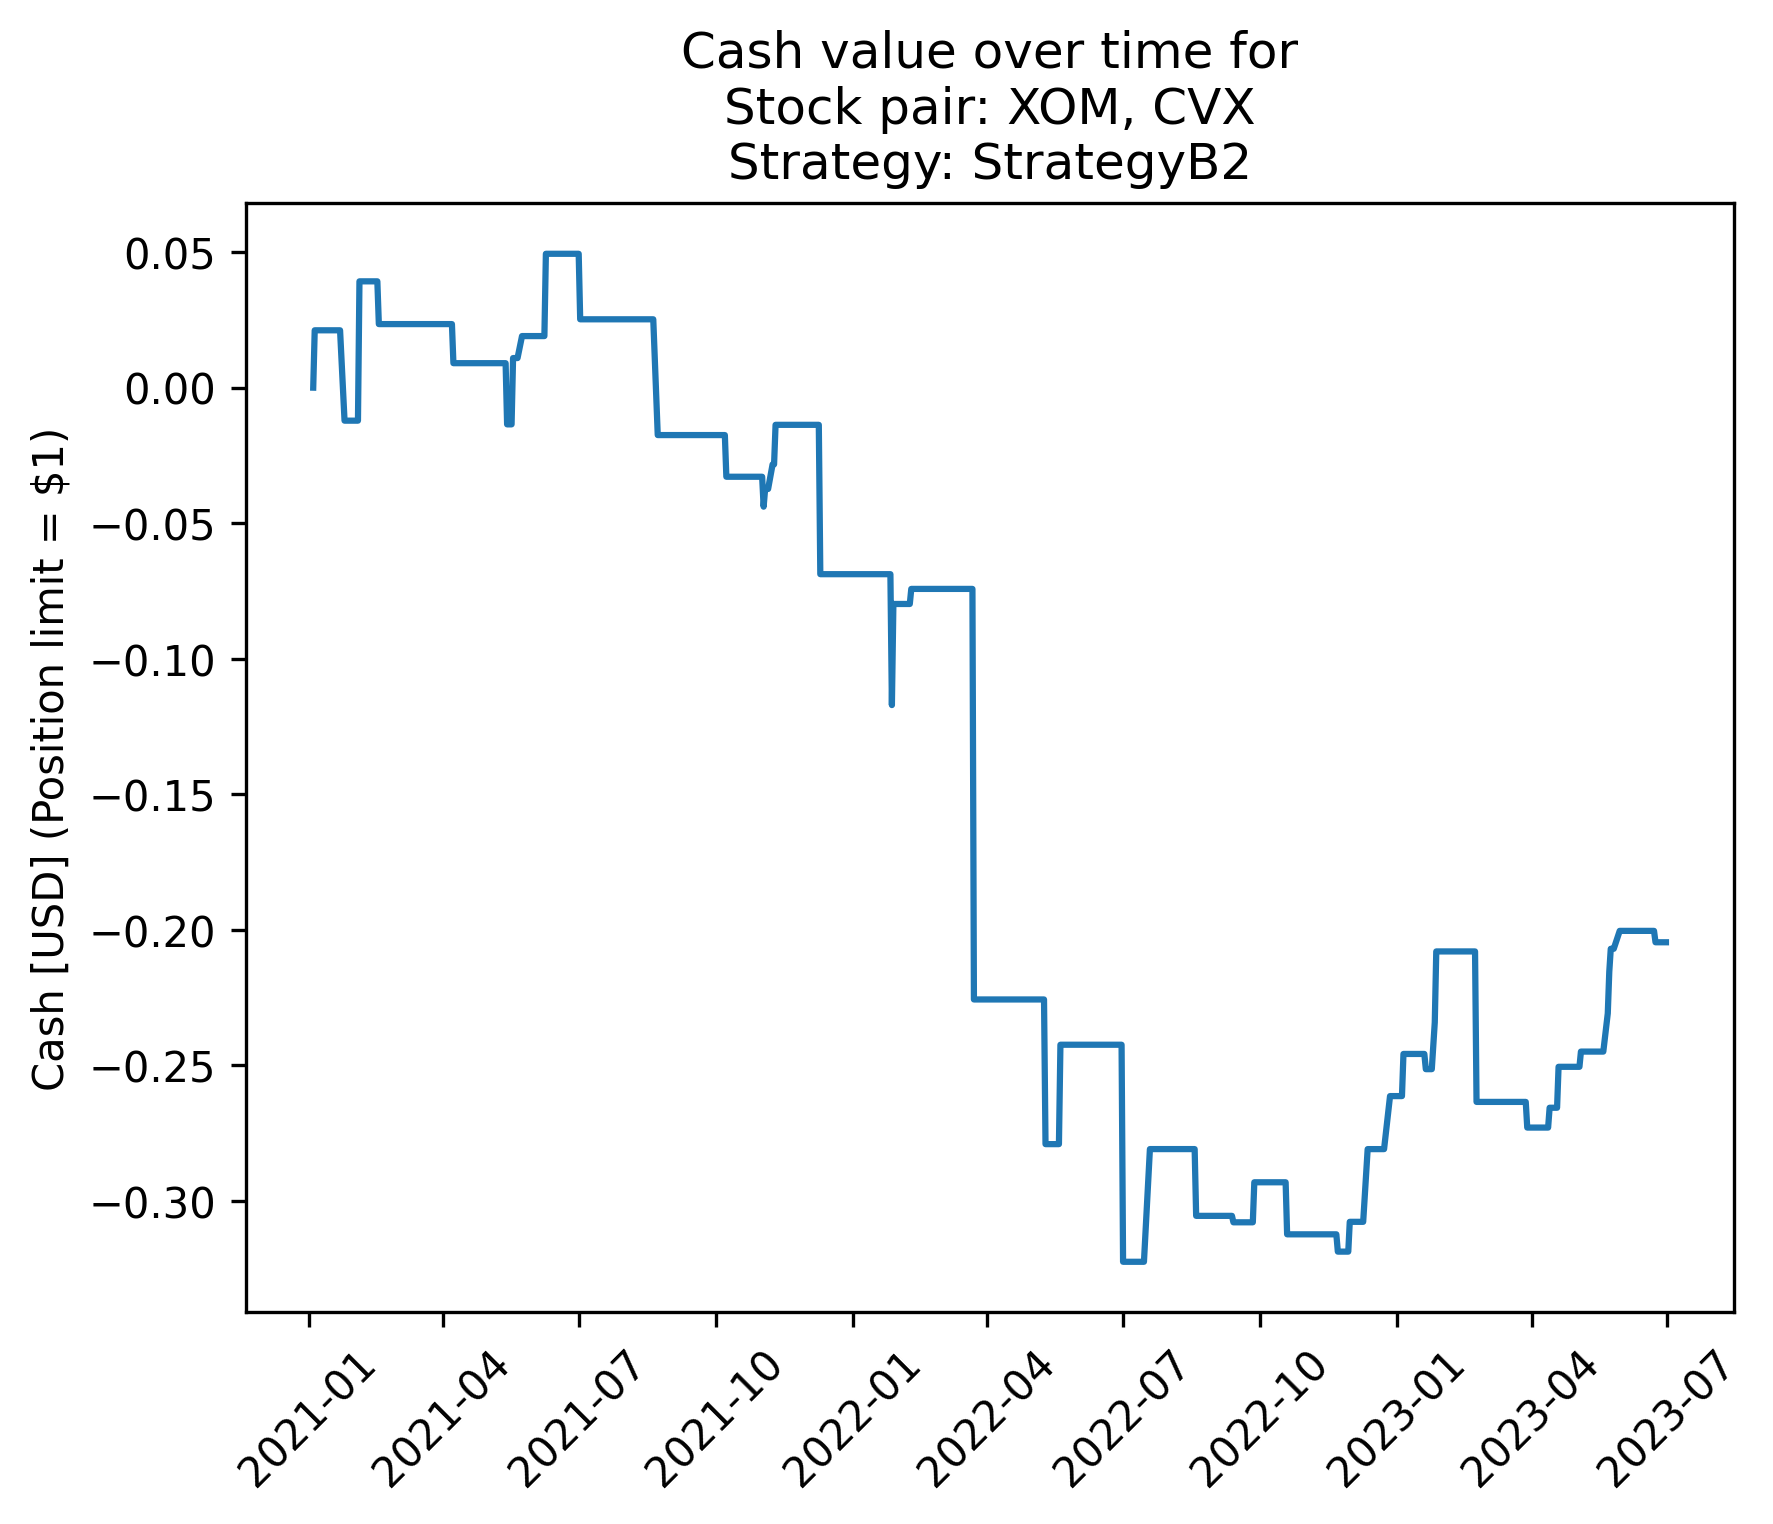
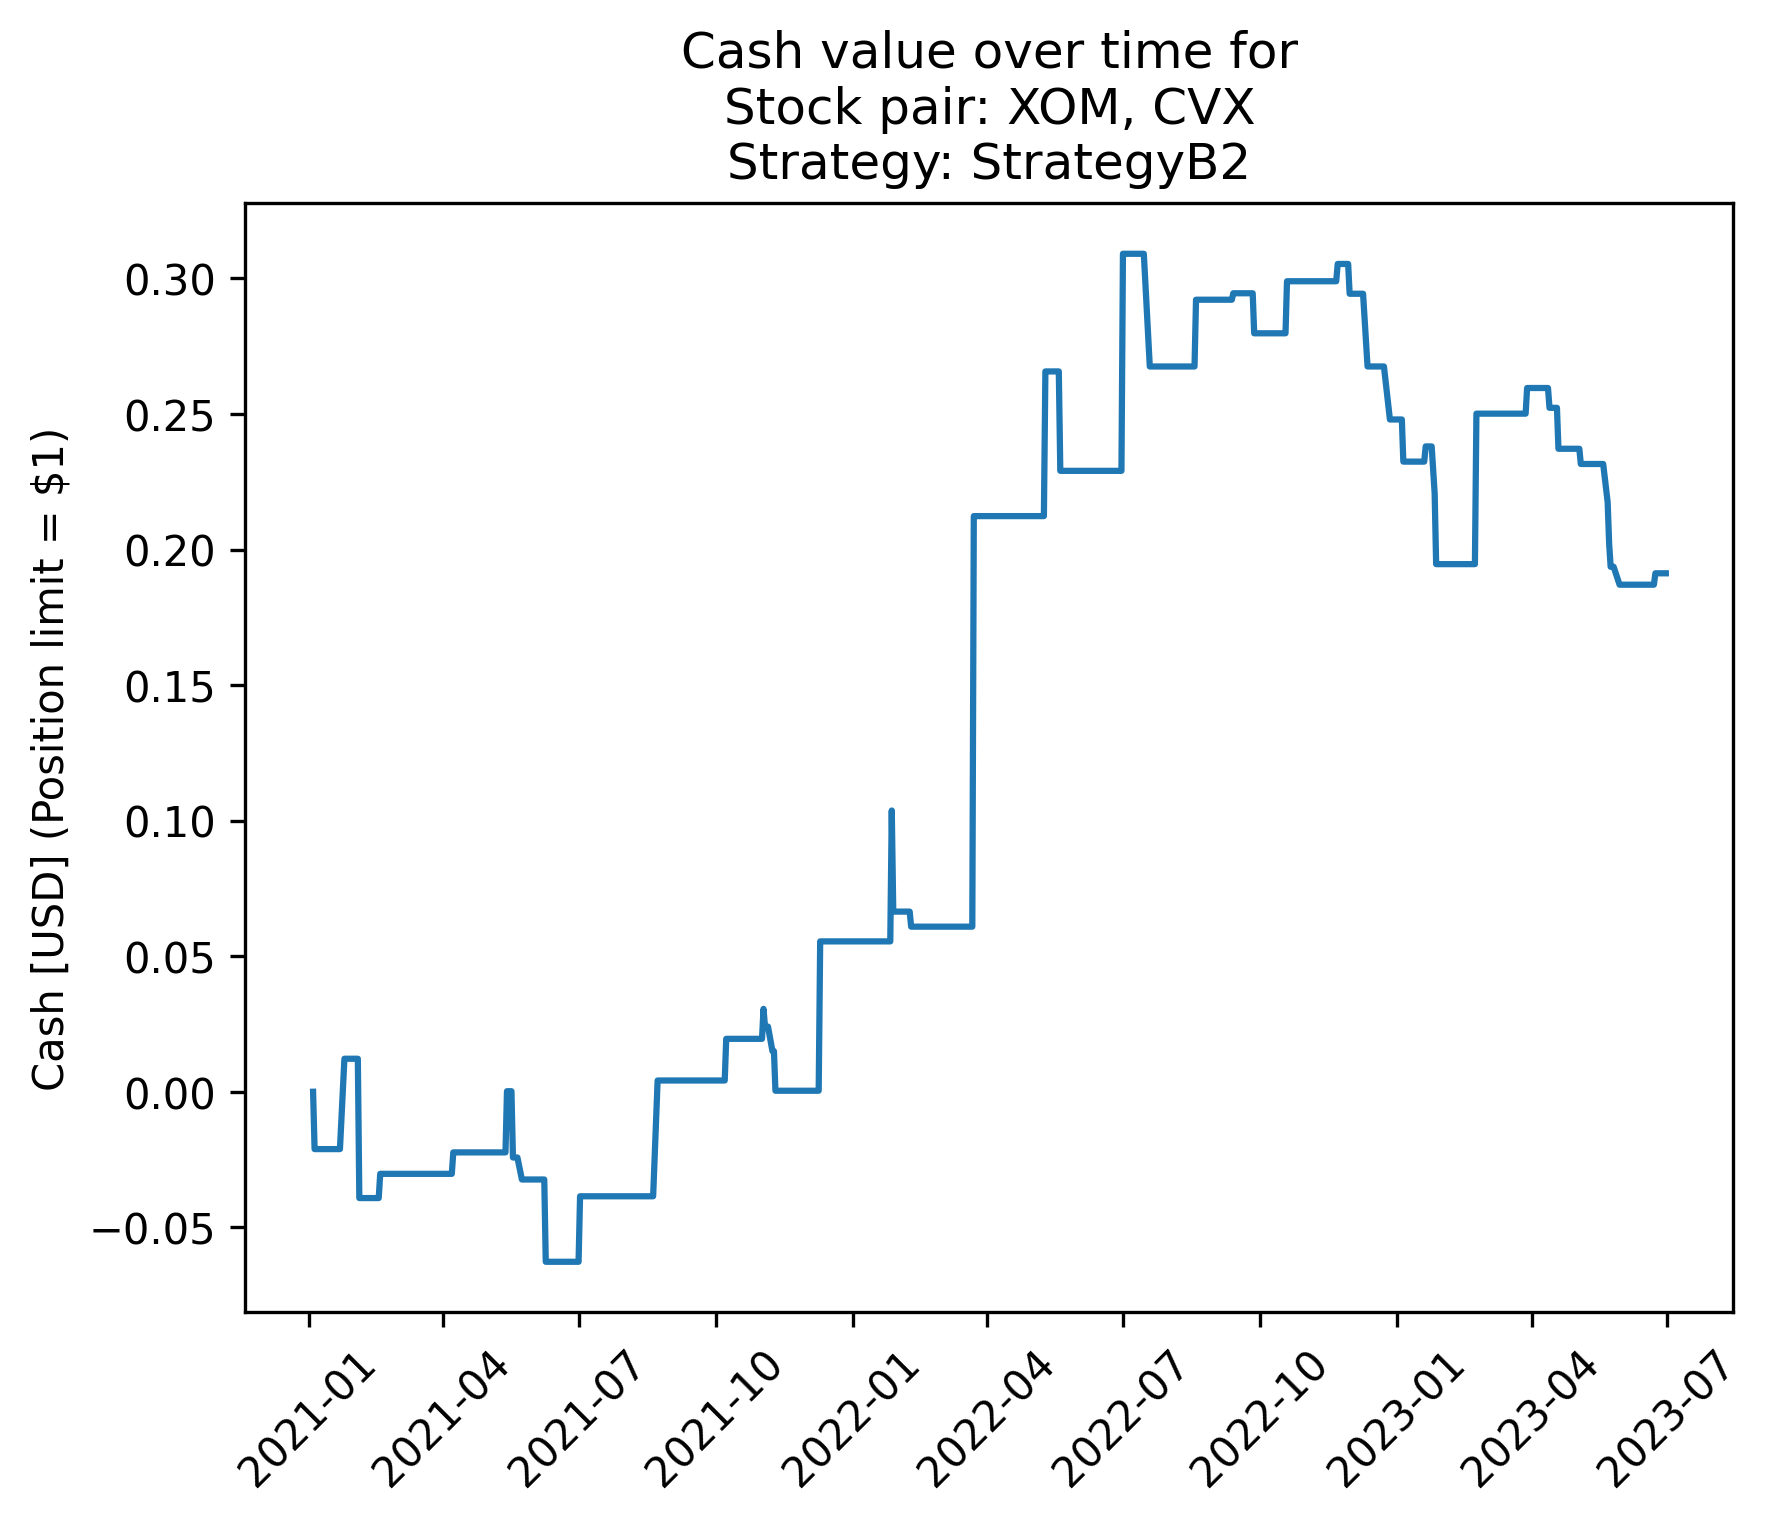
Added tests for StrategyB2

diff --git a/tests/test_strategies.py b/tests/test_strategies.py
@@ -183,3 +183,160 @@ def test_calc_macd_signal():
     # assert macd = [0, -4/15, -176/225, -1384/3375, 29044/50625,-341104/759375]
     assert np.allclose(macd, [0, -4/15, -176/225, -1384/3375, 29044/50625,-341104/759375])
     assert np.allclose(signal, [0, -8/45, -392/675, -1576/3375, 34448/151875, -509968/2278125])
+
+@patch('pairs_trading_oaf.strategies.StrategyB2.calc_initial_macd_signal')
+def test_strategy_b2_initialization_no_initital_macd(mock_calc_initial_macd_signal):
+    """
+    This test checks that the StrategyB2 class is initialized correctly but without calling the
+    calc_initial_macd_signal function.
+    """
+
+    # Arrange
+
+    # Create a mock pair portfolio object
+    mock_pair_portfolio = Mock()
+    mock_pair_portfolio.stock_pair_labels = ('StockA', 'StockB')
+
+    # Act
+    strategy = strategies.StrategyB2(mock_pair_portfolio)
+
+    # Assert
+    assert strategy.pair_portfolio == mock_pair_portfolio
+    assert strategy.macd.fast_period == 12
+    assert strategy.macd.slow_period == 26
+    assert strategy.macd.signal_period == 9
+    assert strategy.macd.fast_ewma is None
+    assert strategy.macd.slow_ewma is None
+    assert strategy.macd.macd is None
+    assert strategy.macd.signal is None
+    mock_calc_initial_macd_signal.assert_called_once()
+
+@patch('pairs_trading_oaf.data.read_csv')
+def test_strategy_b2_initialization(mock_read_csv):
+    """
+    This test checks that the StrategyB2 class is initialized correctly and also tests the
+    calc_initial_macd_signal function.
+    """
+
+    # Arrange
+
+    # Create a mock pair portfolio object
+    mock_pair_portfolio = Mock()
+    mock_pair_portfolio.stock_pair_labels = ('StockA', 'StockB')
+
+    # Create mock data for the initial window
+    mock_data = pd.DataFrame({'Date': pd.date_range(start='2021-01-01', periods=3, freq='D'),
+                              'StockA': np.array([1, 2, 3]),
+                              'StockB': np.array([1, 1, 1]),
+                            })
+    mock_data.index = mock_data['Date']
+    mock_read_csv.return_value = mock_data
+
+    # Act
+    strategy = strategies.StrategyB2(mock_pair_portfolio,
+                                     fast_period=3,
+                                     slow_period=4,
+                                     signal_period=2,
+                                     training_period=2)
+    # alpha_fast = 1/2
+    # alpha_slow = 2/5
+    # alpha_signal = 2/3
+    # ratios = [2, 3]
+    # 1st iteration:
+    # fast_ema = 2
+    # slow_ema = 2
+    # macd = 0
+    # signal = 0
+    # 2nd iteration:
+    # fast_ema = alpha_fast * 3 + (1 - alpha_fast) * 2 = 5/2
+    # slow_ema = alpha_slow * 3 + (1 - alpha_slow) * 2 = 12/5
+    # macd = fast_ema - slow_ema = 1/10
+    # signal = alpha_signal * (1/10) + (1 - alpha_signal) * 0 = 1/15
+
+    # Assert
+    assert strategy.pair_portfolio == mock_pair_portfolio
+    assert strategy.macd.fast_period == 3
+    assert strategy.macd.slow_period == 4
+    assert strategy.macd.signal_period == 2
+    assert strategy.macd.fast_ewma is not None
+    assert strategy.macd.slow_ewma is not None
+    assert strategy.macd.macd is not None
+    assert strategy.macd.signal is not None
+    assert np.isclose(strategy.macd.fast_ewma, 5/2)
+    assert np.isclose(strategy.macd.slow_ewma, 12/5)
+    assert np.isclose(strategy.macd.macd, 1/10)
+    assert np.isclose(strategy.macd.signal, 1/15)
+
+@patch('pairs_trading_oaf.data.read_csv')
+def test_strategy_b2_calculate_new_position(mock_read_csv):
+    """
+    This test checks that the StrategyB2 class calculates the new position correctly.
+    """
+    # Arrange
+    mock_pair_portfolio = Mock()
+    mock_pair_portfolio.stock_pair_labels = ('StockA', 'StockB')
+    mock_pair_portfolio.position = "no position"
+
+    # Create mock training data for the initial window
+    mock_data = pd.DataFrame({'Date': pd.date_range(start='2021-01-01', periods=3, freq='D'),
+                              'StockA': np.array([1, 2, 3]),
+                              'StockB': np.array([1, 1, 1]),
+                            })
+    mock_data.index = mock_data['Date']
+    mock_read_csv.return_value = mock_data
+
+    # Act
+    strategy = strategies.StrategyB2(mock_pair_portfolio,
+                                     fast_period=3,
+                                     slow_period=4,
+                                     signal_period=2,
+                                     training_period=2)
+    
+    assert np.isclose(strategy.macd.fast_ewma, 5/2)
+    assert np.isclose(strategy.macd.slow_ewma, 12/5)
+    assert np.isclose(strategy.macd.macd, 1/10)
+    assert np.isclose(strategy.macd.signal, 1/15)
+
+
+    # Test 1: Check if the macd continues above the signal
+    #         then the position shouldn't change.
+    mock_pair_portfolio.stock_pair_prices = (3, 1)
+    new_position = strategy.calculate_new_position()
+    # fast_ewma = alpha_fast * 3 + (1 - alpha_fast) * 5/2 = 11/4
+    # slow_ewma = alpha_slow * 3 + (1 - alpha_slow) * 12/5 = 66/25
+    # macd = fast_ewma - slow_ewma = 11/100
+    # signal = alpha_signal * (11/100) + (1 - alpha_signal) * 1/15 = 43/450
+    assert np.isclose(strategy.macd.fast_ewma, 11/4)
+    assert np.isclose(strategy.macd.slow_ewma, 66/25)
+    assert np.isclose(strategy.macd.macd, 11/100)
+    assert np.isclose(strategy.macd.signal, 43/450)
+    assert new_position == 'no position'
+
+    # Test 2: Check if the macd crosses below the signal
+    #         then the position should change to long B short A.
+    mock_pair_portfolio.stock_pair_prices = (1, 3)
+    new_position = strategy.calculate_new_position()
+    # fast_ewma = alpha_fast * (1/3) + (1 - alpha_fast) * 11/4 = 37/24
+    # slow_ewma = alpha_slow * (1/3) + (1 - alpha_slow) * 66/25 = 644/375
+    # macd = fast_ewma - slow_ewma = -527/3000
+    # signal = alpha_signal * (-527/3000) + (1 - alpha_signal) * 43/450 = -1151/13500
+    assert np.isclose(strategy.macd.fast_ewma, 37/24)
+    assert np.isclose(strategy.macd.slow_ewma, 644/375)
+    assert np.isclose(strategy.macd.macd, -527/3000)
+    assert np.isclose(strategy.macd.signal, -1151/13500)
+    assert new_position == 'long B short A'
+
+    # Test 3: Check if the macd crosses above the signal
+    #         then the position should change to long A short B.
+    mock_pair_portfolio.stock_pair_prices = (10, 1)
+    new_position = strategy.calculate_new_position()    
+    # fast_ewma = alpha_fast * (10) + (1 - alpha_fast) * 37/24 = 277/48
+    # slow_ewma = alpha_slow * (10) + (1 - alpha_slow) * 644/375 = 3144/625
+    # macd = fast_ewma - slow_ewma = 22213/30000
+    # signal = alpha_signal * (22213/30000) + (1 - alpha_signal) * (-1151/13500)
+    #        = 188407/405000
+    assert np.isclose(strategy.macd.fast_ewma, 277/48)
+    assert np.isclose(strategy.macd.slow_ewma, 3144/625)
+    assert np.isclose(strategy.macd.macd, 22213/30000)
+    assert np.isclose(strategy.macd.signal, 188407/405000)
+    assert new_position == 'long A short B'

diff --git a/pairs_trading_oaf/strategies.py b/pairs_trading_oaf/strategies.py
@@ -221,10 +221,10 @@ class StrategyB2(BaseStrategy):
             self.fast_period = fast_period
             self.slow_period = slow_period
             self.signal_period = signal_period
-            self.fast_ewma = 0.0
-            self.slow_ewma = 0.0
-            self.macd = 0.0
-            self.signal = 0.0
+            self.fast_ewma = None
+            self.slow_ewma = None
+            self.macd = None
+            self.signal = None
 
     def __init__(self, pair_portfolio,
                  fast_period: int = 12,
@@ -262,10 +262,16 @@ class StrategyB2(BaseStrategy):
         df_train = df_train.tail(training_period)
         ratios = df_train[self.pair_portfolio.stock_pair_labels[0]] \
                / df_train[self.pair_portfolio.stock_pair_labels[1]]
-        for ratio in ratios:
-            new_macd, new_signal = self.calc_macd_signal(ratio)
-            self.macd.macd = new_macd
-            self.macd.signal = new_signal
+        for i, ratio in enumerate(ratios):
+            if i == 0:
+                self.macd.fast_ewma = ratio
+                self.macd.slow_ewma = ratio
+                self.macd.macd = 0
+                self.macd.signal = 0
+            else:
+                new_macd, new_signal = self.calc_macd_signal(ratio)
+                self.macd.macd = new_macd
+                self.macd.signal = new_signal
 
     def calculate_new_position(self):
         """
@@ -285,12 +291,10 @@ class StrategyB2(BaseStrategy):
 
         if new_macd > new_signal and old_macd < old_signal:
             # MACD crossed above signal line so long stock A and short stock B
-            # position = 'long A short B'
-            position = 'long B short A'
+            position = 'long A short B'
         elif new_macd < new_signal and old_macd > old_signal:
             # MACD crossed below signal line so long stock B and short stock A
-            # position = 'long B short A'
-            position = 'long A short B'
+            position = 'long B short A'
         else:
             # Don't change the position if the MACD and signal line do not cross
             position = self.pair_portfolio.position

diff --git a/pairs_trading_oaf/main.py b/pairs_trading_oaf/main.py
@@ -13,7 +13,7 @@ position_limit worth of stock B and vice versa when we long stock B and short st
 """
 
 import time
-import matplotlib.pyplot as plt
+# import matplotlib.pyplot as plt
 from pairs_trading_oaf import trading, portfolio, strategies, plotting
 
 tic = time.perf_counter()
